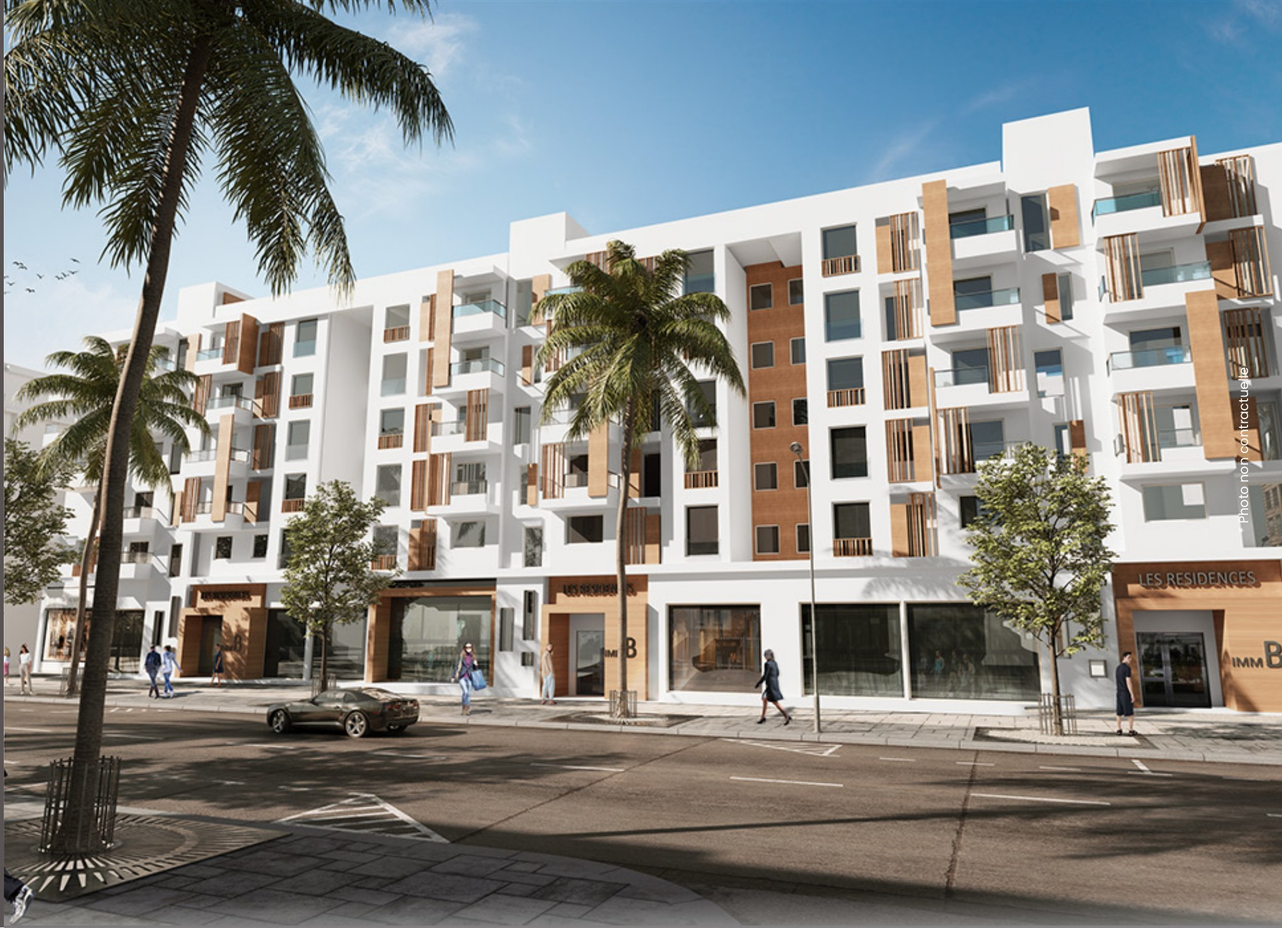
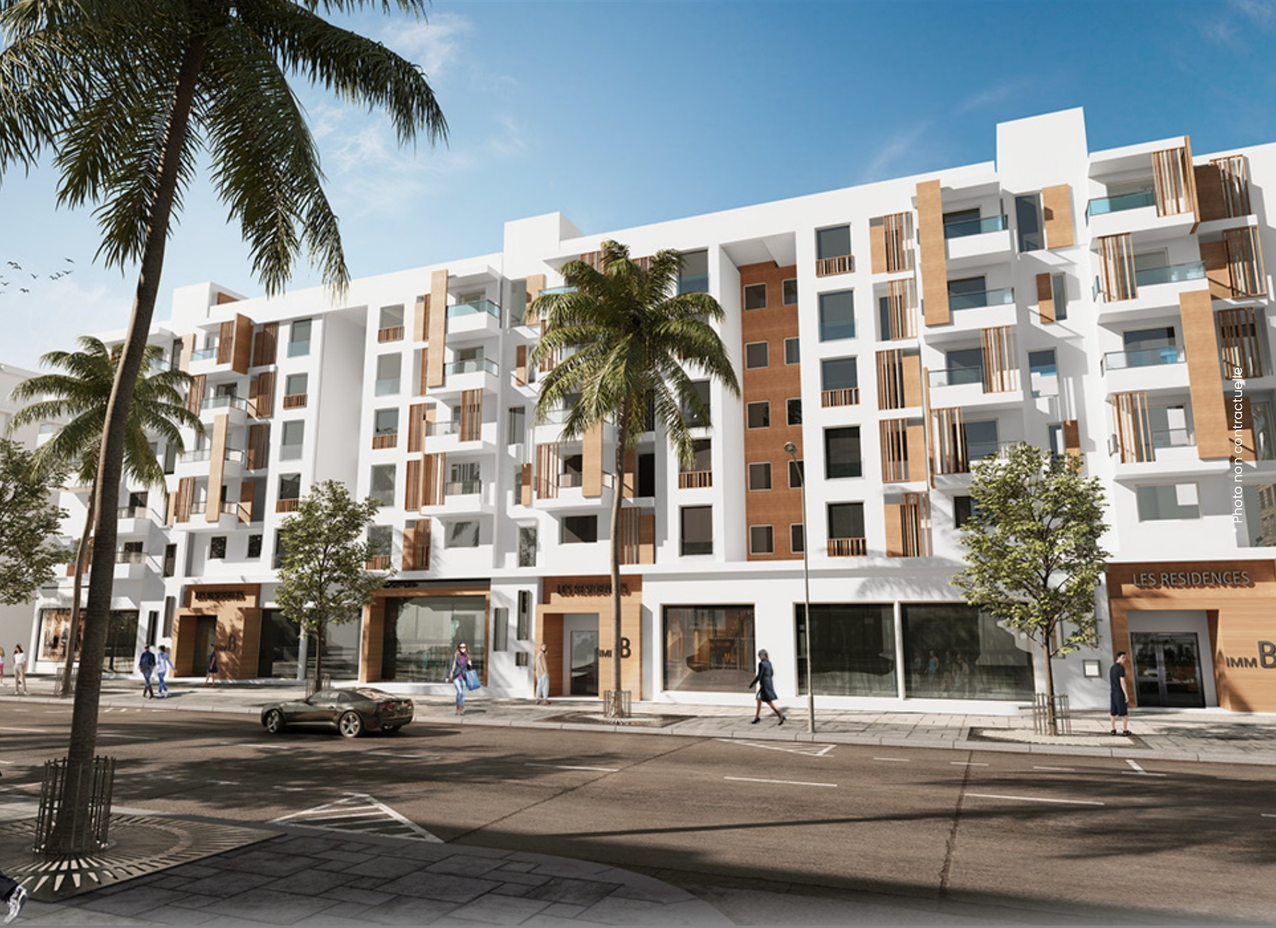
Add files via upload

diff --git a/projet.html b/projet.html
@@ -96,8 +96,8 @@ footer{background:var(--navy);padding:32px 60px;display:flex;align-items:center;
 <h2 class="section-title">Un complexe <em>intégré</em></h2>
 <div class="section-ar">مجمع متكامل في قلب الدار البيضاء</div>
 <div class="grid2" style="margin-bottom:24px">
-  <img src="photo-jardin.webp" alt="Façade" style="width:100%;height:280px;object-fit:cover;border-radius:12px;">
-  <img src="photo-jardin.webp" alt="Jardin" style="width:100%;height:280px;object-fit:cover;border-radius:12px;">
+  <img src="missimi-facade2.jpg" alt="Façade Missimi Living" style="width:100%;height:280px;object-fit:cover;border-radius:12px;">
+  <img src="missimi-chambre.jpg" alt="Intérieur Missimi Living" style="width:100%;height:280px;object-fit:cover;border-radius:12px;">
 </div>
 <div class="grid3" style="margin-bottom:36px">
   <div class="card"><div style="font-size:28px;margin-bottom:8px">🏢</div><div class="gl">Immeubles</div><div style="font-family:'Cormorant Garamond',serif;font-size:44px;font-weight:300;color:var(--navy);line-height:1">9</div><p style="font-size:13px;color:var(--muted);margin-top:6px;line-height:1.65">Neuf immeubles de 5 étages chacun, architecturalement cohérents et bien intégrés dans le tissu urbain de Casablanca.</p></div>
@@ -110,10 +110,10 @@ footer{background:var(--navy);padding:32px 60px;display:flex;align-items:center;
 <div class="grid2" style="margin-top:24px;margin-bottom:36px">
   <div class="card-dark"><div class="gl">Jardin central</div><div style="font-size:28px;margin:10px 0">🌿</div><p style="font-size:13px;color:rgba(255,255,255,.65);line-height:1.75">Un jardin paysager au cœur de la résidence. Arbres, plantes et bancs créent un havre de paix pour tous les occupants.</p></div>
   <div class="card-dark"><div class="gl">2 Parkings souterrains</div><div style="font-size:28px;margin:10px 0">🚗</div><p style="font-size:13px;color:rgba(255,255,255,.65);line-height:1.75">Deux niveaux de parking souterrain sécurisés, accessibles aux résidents, occupants de bureaux et commerçants.</p></div>
-  <div class="card"><div style="font-size:24px;margin-bottom:8px">🛗</div><div style="font-size:14px;font-weight:600;margin-bottom:6px">Ascenseur par immeuble</div><p style="font-size:13px;color:var(--muted);line-height:1.7">Chacun des 9 immeubles dispose de son propre ascenseur pour un confort optimal à tous les étages.</p></div>
+  <div class="card"><div style="font-size:24px;margin-bottom:8px">🛗</div><div style="font-size:14px;font-weight:600;margin-bottom:6px">Ascenseur par immeuble</div><p style="font-size:13px;color:var(--muted);line-height:1.7">Chacun des 10 immeubles dispose de son propre ascenseur pour un confort optimal à tous les étages.</p></div>
   <div class="card"><div style="font-size:24px;margin-bottom:8px">🔒</div><div style="font-size:14px;font-weight:600;margin-bottom:6px">Sécurité 24h/24</div><p style="font-size:13px;color:var(--muted);line-height:1.7">Gardiennage et contrôle d'accès permanents pour assurer la sécurité de tous les occupants et leurs biens.</p></div>
   <div class="card"><div style="font-size:24px;margin-bottom:8px">📱</div><div style="font-size:14px;font-weight:600;margin-bottom:6px">Gestion digitale RedTech</div><p style="font-size:13px;color:var(--muted);line-height:1.7">Plateforme de gestion des tickets, comptabilité et annuaire prestataires accessible depuis votre téléphone.</p></div>
-  <div class="card"><div style="font-size:24px;margin-bottom:8px">📍</div><div style="font-size:14px;font-weight:600;margin-bottom:6px">Localisation</div><p style="font-size:13px;color:var(--muted);line-height:1.7">Boulevard Oued Abou Regreg, Casablanca 20250. Accès facile aux axes principaux de la ville.</p></div>
+  <div class="card"><div style="font-size:24px;margin-bottom:8px">📍</div><div style="font-size:14px;font-weight:600;margin-bottom:6px">Localisation</div><p style="font-size:13px;color:var(--muted);line-height:1.7">Quartier Hay Hassani, Casablanca. Accès facile aux axes principaux de la ville.</p></div>
 </div>
 <div class="divider"></div>
 <div style="text-align:center;padding:16px 0">
